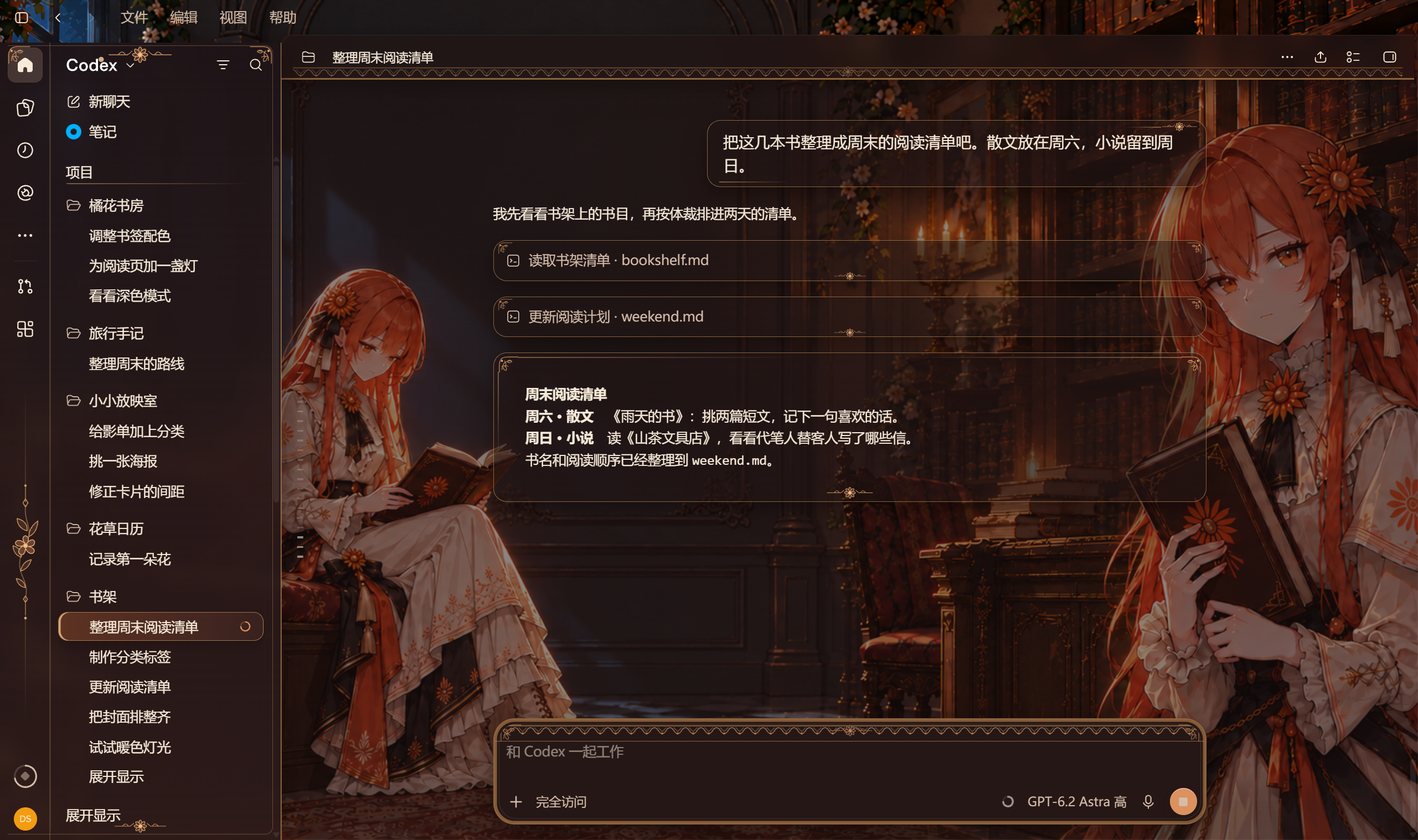
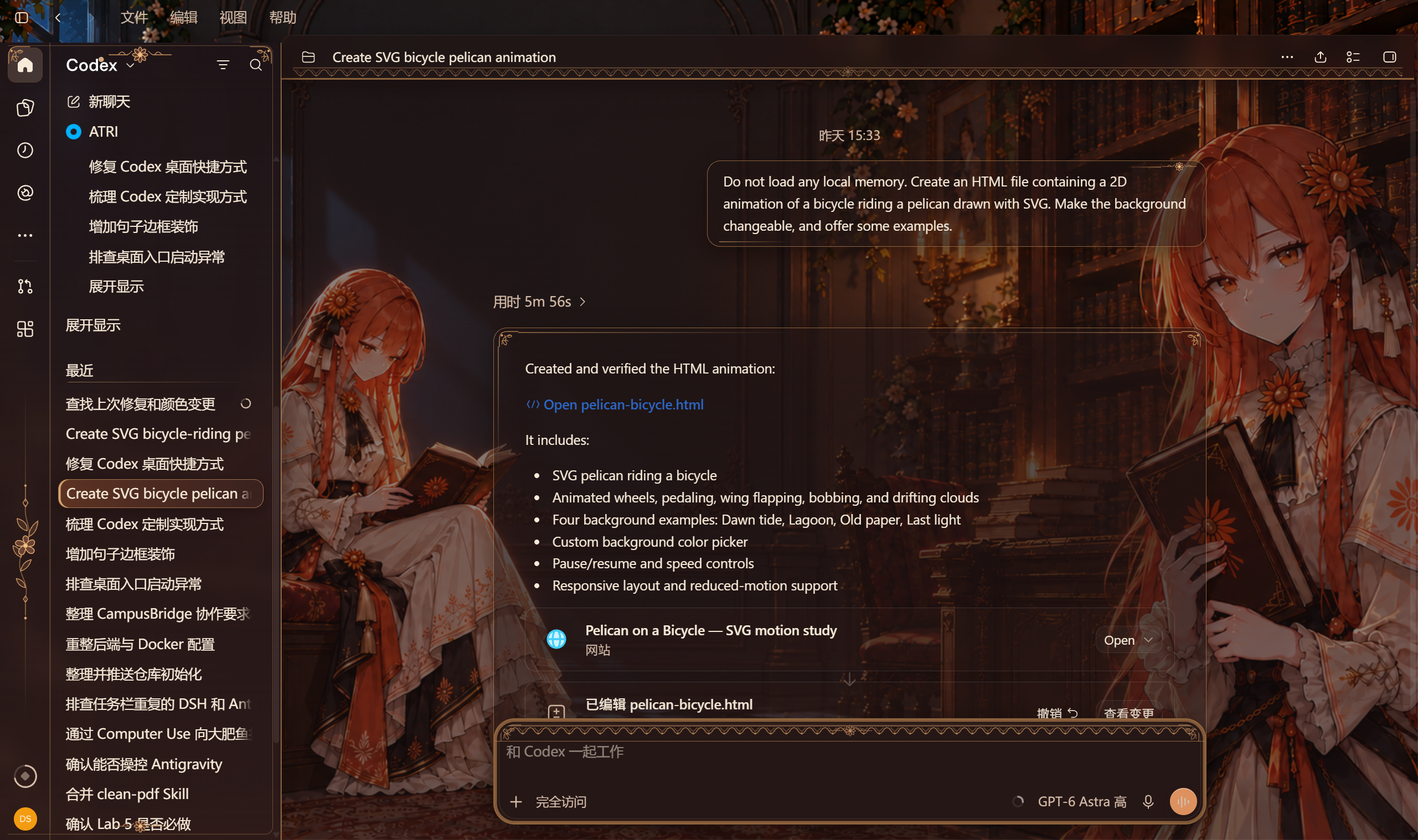
用首页与 SVG 动画对话的实机截图展示主题

diff --git a/README.md b/README.md
@@ -4,18 +4,20 @@
 
 ## Atelier 装饰效果
 
-以下是 Windows 上使用 [Atelier 定制引擎](https://github.com/X-Immortal/Codex-Dream-Skin/tree/d4e3e07047ce5565fce8e01b6ed1cdd59d80c29e)的深色主题全窗口截图，侧栏和对话使用示例内容。
+以下是 Windows 上使用 [Atelier 定制引擎](https://github.com/X-Immortal/Codex-Dream-Skin/tree/d4e3e07047ce5565fce8e01b6ed1cdd59d80c29e)的深色主题全窗口截图。
 
 **新聊天首页**
 
 ![橘花书房首页，左侧为项目和聊天列表，中央是书房背景与输入框](docs/images/home-dark.png)
 
-**对话进行中**
+**制作 SVG 动画时的对话**
 
-![周末阅读清单示例，展示用户气泡、工具调用、助手回复与输入框](docs/images/conversation-dark.png)
+![制作骑车鹈鹕动画的真实对话、助手回复和 HTML 成品卡片](docs/images/conversation-dark.png)
 
 <details>
-<summary>侧栏橘花与输入框花边细节</summary>
+<summary>展开查看工具调用和装饰细节</summary>
+
+![展开工作过程后的文件读取与创建记录](docs/images/activity-dark.png)
 
 <img src="docs/images/sidebar-dark.png" alt="侧栏顶端居中的橘花与两侧枝叶角饰" width="290">
 
